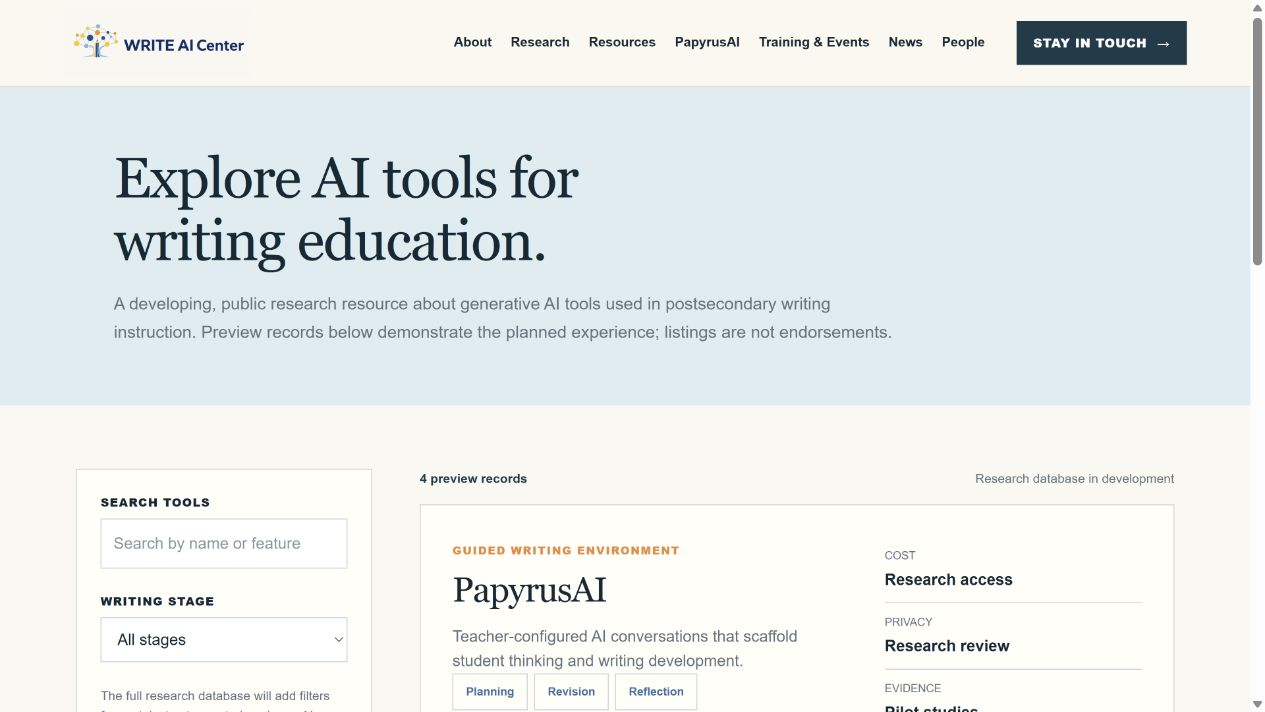
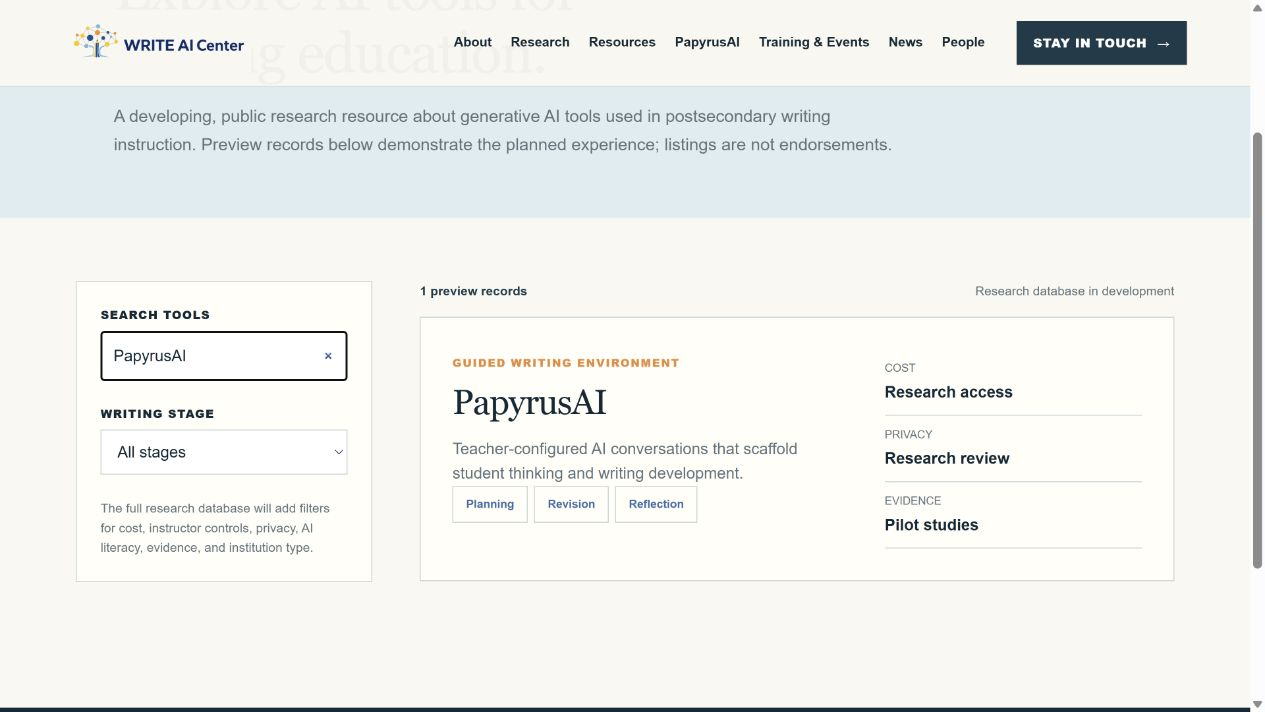
Strengthen WRITE AI technical case study

diff --git a/writeai.html b/writeai.html
@@ -21,51 +21,54 @@
 
         <section class="case-hero">
             <h1>WRITE AI Center</h1>
-            <p>A complete digital presence for a national research center studying how generative AI can improve writing instruction in postsecondary education.</p>
+            <p>A production web platform for a national research center studying how generative AI can improve writing instruction in postsecondary education.</p>
             <div class="case-hero-actions">
                 <a class="btn btn-primary" href="https://writeai.center/" target="_blank" rel="noopener noreferrer">Visit WRITE AI Center</a>
+                <a class="btn btn-secondary" href="https://writeai.center/people/avni-doshi" target="_blank" rel="noopener noreferrer">View my WRITE AI profile</a>
             </div>
         </section>
 
         <section class="case-section">
             <h2>Overview</h2>
             <div class="case-content">
-                <p>WRITE AI brings together researchers, educators, institutional partners, and technology developers to build evidence for effective, responsible, and equitable uses of generative AI in writing education.</p>
-                <p>The website serves as the Center's public home, connecting its research, PapyrusAI platform, training and events, resources, news, people, and partner organizations in one cohesive experience.</p>
+                <p>WRITE AI is a national research center focused on effective, responsible, and equitable applications of generative AI in postsecondary writing education. Its public website needed to support multiple audiences while organizing research, PapyrusAI, training, resources, news, people, and partner organizations within a maintainable technical system.</p>
+                <p>I delivered the platform as a responsive React and TypeScript application with reusable route patterns, structured content models, an interactive AI-tools directory, accessible navigation, and a Cloudflare deployment architecture.</p>
             </div>
         </section>
 
         <section class="case-section">
             <h2>What I did</h2>
             <div class="case-content">
-                <p>I designed and built the entire working website from end to end. I established the visual direction, information architecture, responsive layouts, typography, color system, navigation, reusable components, and interaction patterns across the full site.</p>
-                <p>I translated the Center's research mission and extensive institutional content into clear pathways for different audiences. I created flexible page systems for research areas, resources, training, news, people, and partner profiles, then implemented and refined each experience for accessibility, consistency, and ease of use across desktop and mobile.</p>
-                <p>I also designed the interactive AI tools directory, giving visitors a structured way to search and compare tools by writing stage while clearly communicating cost, privacy, and available evidence.</p>
+                <p>I owned the website's design and engineering from initial information architecture through production deployment. I translated stakeholder and research requirements into a responsive component system, then implemented the interface in React and TypeScript using Vinext's Next-compatible routing model and Vite-based build pipeline.</p>
+                <p>I developed reusable layouts for research areas, resource collections, events, news stories, team profiles, and partner organizations. Shared navigation and page-shell components provide consistent behavior across routes, including active-page states, semantic landmarks, keyboard-accessible controls, and mobile navigation.</p>
+                <p>For the AI-tools directory, I built a stateful search and writing-stage filter with React hooks and derived result sets. I also defined a relational Drizzle schema for tools, writing stages, resources, and people, including a many-to-many tool-to-writing-stage model and fields for privacy, bias, cost, infrastructure, evidence, and verification status.</p>
+                <p>I prepared the application for Cloudflare Workers and D1, configured server-side rendering and image optimization, and added automated tests that verify the homepage, primary routes, and organization profiles render successfully in the production worker environment. I also used Google Apps Script to automate newsletter signup handling and connect form submissions to the Center's subscriber workflow.</p>
             </div>
         </section>
 
         <div class="case-subsection">
-            <h3>A unified research platform</h3>
+            <h3>System architecture and delivery</h3>
             <div class="case-content">
-                <p>The design balances the credibility of a national research center with a welcoming editorial voice. A consistent visual system connects complex research questions, PapyrusAI, public resources, and organizational stories without flattening the purpose of each section.</p>
+                <p>The application separates reusable interface components, structured content, client-side interactions, database models, and worker infrastructure so each layer can evolve independently. This architecture supports a growing research center without requiring one-off page implementations as new tools, people, resources, events, and partner records are added.</p>
             </div>
         </div>
 
-        <section class="project-gallery writeai-gallery flashcard-gallery" data-flashcard-gallery aria-label="WRITE AI Center website screens">
-            <figure class="is-active"><img src="images/writeai/home.png" alt="WRITE AI Center homepage"><figcaption>Homepage introducing the Center's mission through an editorial layout and connected research themes</figcaption></figure>
-            <figure><img src="images/writeai/research.png" alt="WRITE AI Center research page"><figcaption>Research experience translating the Center's core questions into a clear, structured narrative</figcaption></figure>
-            <figure><img src="images/writeai/papyrus-ai.png" alt="WRITE AI Center PapyrusAI page"><figcaption>PapyrusAI feature page explaining the Center's scaffolded environment for writing instruction</figcaption></figure>
-            <figure><img src="images/writeai/ai-tools.png" alt="WRITE AI Center AI tools directory"><figcaption>Interactive AI tools directory with search, writing-stage filters, and evidence-focused comparison details</figcaption></figure>
+        <section class="project-gallery writeai-gallery flashcard-gallery" data-flashcard-gallery aria-label="WRITE AI Center platform features">
+            <figure class="is-active"><img src="images/writeai/home.png" alt="WRITE AI Center responsive homepage"><figcaption>Responsive homepage with reusable navigation, mission-driven content hierarchy, and linked research pathways</figcaption></figure>
+            <figure><img src="images/writeai/ai-tools.png" alt="WRITE AI Center AI tools directory filtered to PapyrusAI"><figcaption>Client-side AI-tools directory filtering records by search query and writing stage while exposing cost, privacy, and evidence fields</figcaption></figure>
+            <figure><img src="images/writeai/research.png" alt="WRITE AI Center detailed research question template"><figcaption>Reusable research template structuring complex study scope, infrastructure requirements, safety considerations, and expected outputs</figcaption></figure>
+            <figure><img src="images/writeai/papyrus-ai.png" alt="WRITE AI Center PapyrusAI product page"><figcaption>Product-focused route explaining PapyrusAI's LLM-supported writing environment and research context</figcaption></figure>
+            <figure><img src="images/writeai/profile.png" alt="Avni Doshi profile on the WRITE AI Center website"><figcaption>Dynamic team-profile route generated from structured people data and shared profile components</figcaption></figure>
             <div class="flashcard-controls">
                 <button type="button" data-gallery-previous aria-label="Show previous WRITE AI screen">&#8249;</button>
-                <span data-gallery-status aria-live="polite">1 of 4</span>
+                <span data-gallery-status aria-live="polite">1 of 5</span>
                 <button type="button" data-gallery-next aria-label="Show next WRITE AI screen">&#8250;</button>
             </div>
         </section>
 
         <section class="case-section">
             <h2>Tech Stack</h2>
-            <div class="tech-list"><span>Figma</span><span>React</span><span>TypeScript</span><span>Vinext</span><span>Vite</span><span>Cloudflare Workers</span><span>Drizzle ORM</span><span>Responsive Design</span><span>Accessibility</span></div>
+            <div class="tech-list"><span>Figma</span><span>React 19</span><span>TypeScript</span><span>Vinext</span><span>Vite</span><span>Cloudflare Workers</span><span>Cloudflare D1</span><span>Drizzle ORM</span><span>Google Apps Script</span><span>Server-Side Rendering</span><span>Accessible UI</span><span>Node Test Runner</span></div>
         </section>
     </main>
     <script src="gallery.js"></script>

diff --git a/projects.html b/projects.html
@@ -13,7 +13,7 @@
     </ul></nav></header>
     <main class="projects-page">
         <section class="project-list" aria-label="Project list">
-            <a class="project-card" href="writeai.html"><div class="project-card-image writeai-thumbnail"><img src="images/writeai/home.png" alt="WRITE AI Center homepage designed by Avni Doshi"></div><div class="project-card-copy"><div class="project-card-heading"><h2>WRITE AI Center</h2><span class="project-card-date">Aug 2026</span></div><p>A complete, responsive website for a national research center advancing writing education in the age of AI.</p></div></a>
+            <a class="project-card" href="writeai.html"><div class="project-card-image writeai-thumbnail"><img src="images/writeai/home.png" alt="WRITE AI Center homepage designed and developed by Avni Doshi"></div><div class="project-card-copy"><div class="project-card-heading"><h2>WRITE AI Center</h2><span class="project-card-date">Aug 2026</span></div><p>A responsive React and TypeScript web platform for a national research center advancing writing education in the age of AI.</p></div></a>
             <a class="project-card" href="science-inquiry-studio.html"><div class="project-card-image science-thumbnail"><img src="images/science-inquiry-studio/student-activities.png" alt="Science Inquiry Studio student activities platform"></div><div class="project-card-copy"><div class="project-card-heading"><h2>Science Inquiry Studio</h2><span class="project-card-date">Jun 2026–Present</span></div><p>An AI-supported science platform combining inquiry-based learning, interactive activities, and classroom insights.</p></div></a>
             <a class="project-card" href="homescreen-ai.html"><div class="project-card-image homescreen-thumbnail"><img src="images/homescreen-ai/agent-assist.png" alt="Homescreen AI agent-assisted hospitality platform"></div><div class="project-card-copy"><div class="project-card-heading"><h2>Homescreen AI</h2><span class="project-card-date">Jun–Sep 2025</span></div><p>An AI-powered hospitality platform that streamlines guest communication and personalized concierge workflows.</p></div></a>
             <a class="project-card" href="smart-health-finance.html"><div class="project-card-image health-thumbnail"><img src="images/smart-health-finance/landing.png" alt="Smart Health Finance healthcare planning platform"></div><div class="project-card-copy"><div class="project-card-heading"><h2>Smart Health Finance</h2><span class="project-card-date">Jan–Mar 2026</span></div><p>An AI-powered platform providing personalized guidance on healthcare budgeting, insurance, and HSA planning.</p></div></a>

diff --git a/experience.html b/experience.html
@@ -31,7 +31,7 @@
                     </div>
                     <ul>
                         <li>Developing the student and teacher platforms for the NSF-funded <a class="inline-link" href="https://www.computingandaiforall.org/" target="_blank" rel="noopener noreferrer">Computing and AI for All</a> initiative, a $6M+ research effort led by <a class="inline-link" href="https://markwarschauer.com/" target="_blank" rel="noopener noreferrer">Professor Mark Warschauer</a>, by translating research, curriculum, and classroom requirements into production-ready interfaces and interactive science and AI learning experiences.</li>
-                        <li>Designed and engineered the complete public website for the <a class="inline-link" href="https://writeai.center/" target="_blank" rel="noopener noreferrer">WRITE AI Center</a>, building a responsive React and TypeScript application with reusable content components, accessible navigation, an interactive AI-tools directory, Drizzle ORM data models, and a Cloudflare Workers deployment pipeline.</li>
+                        <li>Designed and engineered the complete public website for the <a class="inline-link" href="https://writeai.center/" target="_blank" rel="noopener noreferrer">WRITE AI Center</a>, building a responsive React and TypeScript application with reusable content components, accessible navigation, an interactive AI-tools directory, Drizzle ORM data models, a Google Apps Script newsletter workflow, and a Cloudflare Workers deployment pipeline.</li>
                         <li>Building standards-aligned science and AI curricula for grades 6–8, integrating subject-matter instruction with AI literacy and supporting pilots across Orange County school districts.</li>
                         <li>Co-leading the design of <a class="inline-link" href="https://sinq.studio/" target="_blank" rel="noopener noreferrer">Science Inquiry Studio</a>, prototyping interactive games and simulations that embed LLMs, data practices, and AI ethics directly into classroom activities.</li>
                         <li>Designed the complete student and teacher platform interfaces, translating classroom workflows into cohesive journeys for middle school students and teachers, with reusable UI patterns, accessible interactions, and role-specific tools for completing activities, monitoring progress, and managing instruction.</li>
